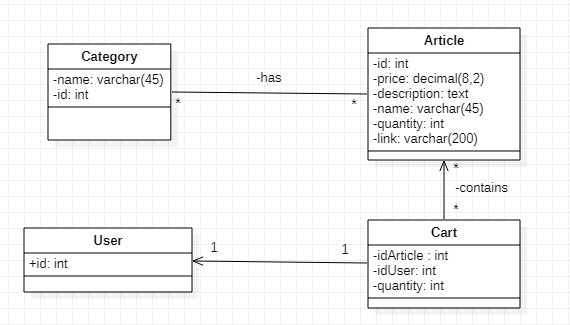
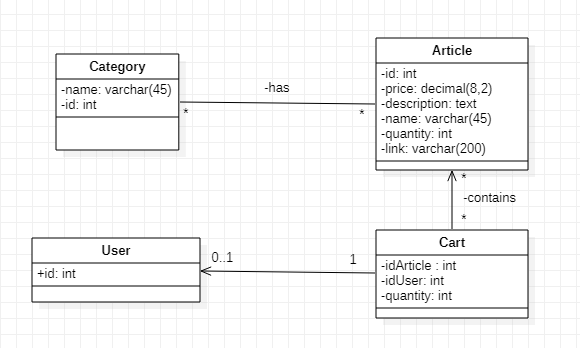
tweaked domain model, added tests and comments for Article class

Changed region(s): [[0.0298, 0.0615, 0.9246, 0.9538]]

diff --git a/src/main/java/com/DAO/Objects/Article.java b/src/main/java/com/DAO/Objects/Article.java
@@ -14,7 +14,6 @@ import java.util.List;
 import java.util.Objects;
 import java.util.Set;
 
-//TODO: peut etre enlever les @SETTER parce qu'on peut modifier depuis le navigateur les trucs de la DB
 @Table(name = "article")
 @Entity
 @Proxy(lazy=false)
@@ -25,8 +24,6 @@ public class Article {
             "Mega cool Theme", 0, "./resources/images/product2-2.jpg");
 
 
-
-
     @Id
     @GeneratedValue(strategy = GenerationType.IDENTITY)
     @Column(name = "id", nullable = false)
@@ -34,7 +31,7 @@ public class Article {
     private Integer id;
 
     @Column(name = "price", precision = 8, scale = 2)
-    @Getter @Setter
+    @Getter
     private BigDecimal price;
 
     @Lob
@@ -47,12 +44,21 @@ public class Article {
     private String name;
 
     @Column(name = "quantity", nullable = false)
-    @Getter @Setter
+    @Getter
     private Integer quantity;
 
     @Column(name = "link", length = 200)
     @Getter @Setter
     private String link;
+
+    @ManyToMany(cascade={CascadeType.PERSIST},fetch=FetchType.EAGER)
+    @JoinTable(
+            name = "article_category",
+            joinColumns = {@JoinColumn(name ="idArticle")},
+            inverseJoinColumns = {@JoinColumn(name="idCategory")}
+    )
+    @Getter
+    private Set<Category> categories = new HashSet<Category>();
 
     public Article(BigDecimal price, String description, String name, Integer quantity, String link){
         this.price = (price.intValue() >= 0) ? price : BigDecimal.valueOf(0);
@@ -67,33 +73,62 @@ public class Article {
 
     }
 
+    /**
+     * Setter for the article price, not generated cause we want to make sure it cannot be a negative number
+     * @param price the new value for the article price
+     */
+    public void setPrice(BigDecimal price) {
+        this.price =  (price.intValue() >= 0) ? price : BigDecimal.valueOf(0);
+    }
+
+    /**
+     * Setter for the article quantity, because we don't want it to be negative
+     * @param quantity the new value for the article quantity
+     */
+    public void setQuantity(Integer quantity) {
+        this.quantity = this.quantity = quantity >= 0 ? quantity : 0;;
+    }
+
+    /**
+     * determines wether or not an article is "sellable", which means that it has a price
+     * that is over 0 and a quantity that is over 0 as well
+     * @return true if the article has non-null price and quantity
+     */
     public boolean isSellable(){
         return this.price.compareTo(BigDecimal.ZERO) > 0 && this.quantity > 0;
     }
 
-    @ManyToMany(cascade={CascadeType.PERSIST},fetch=FetchType.EAGER)
-    @JoinTable(
-            name = "article_category",
-            joinColumns = {@JoinColumn(name ="idArticle")},
-            inverseJoinColumns = {@JoinColumn(name="idCategory")}
-    )
-    @Getter
-    private Set<Category> categories = new HashSet<Category>();
 
+    /**
+     * helper function to add a category to an article
+     * and then add our article to the category
+     * @param category the category we want to add to our article
+     */
     public void addCategory(Category category) {
         this.categories.add(category);
         category.getArticles().add(this);
     }
 
+    /**
+     * helper function to remove a category from an article
+     * it also removes the article from that category
+     * @param category the category we want to remove
+     */
     public void removeCategory(Category category) {
         this.categories.remove(category);
         category.getArticles().remove(this);
     }
 
-    //TODO contains marchait pas pour ça, peut-être modifier le equals ? jsp si c'est propre ou pas
+
+    /**
+     * checks if an article has a certain category
+     * @param category the category you want to check
+     * @return true if the category has the same id as a category in the article's set
+     */
     public boolean hasCategory(Category category){
         Boolean hasCategory = false;
         for(Category c : this.getCategories()){
+            //TODO apparently this isn't good (cf code quality in github, will fix later)
             if( c.getId() == category.getId()){
                 hasCategory = true;
             }
@@ -101,10 +136,27 @@ public class Article {
         return hasCategory;
     }
 
+    /**
+     * adds a list of categories to our article
+     * @param categoryList a list containing all the categories you want to add
+     */
     public void addCategoryList( List<Category> categoryList){
-        categories.addAll( categoryList );
+        for( Category cat : categoryList){
+            this.addCategory(cat);
+        }
     }
 
+    /**
+     * removes a list of categories from our article
+     * @param categoryList a list containing all the categories you want to remove
+     */
+    public void removeCategoryList(List<Category> categoryList){
+        for(Category cat: categoryList){
+            this.removeCategory(cat);
+        }
+    }
+
+    @Override
     public boolean equals(Object o){
         if (o == this) return true;
         if (!(o instanceof Article)) return false;

diff --git a/src/test/java/ArticleTest.java b/src/test/java/ArticleTest.java
@@ -1,0 +1,110 @@
+import com.DAO.Objects.Article;
+import com.DAO.Objects.Category;
+import org.junit.jupiter.api.Test;
+
+import java.math.BigDecimal;
+
+
+import static org.junit.jupiter.api.Assertions.*;
+
+
+public class ArticleTest {
+    Article article1 = new Article(BigDecimal.valueOf(10.67),"testing","Article1", 5, "placeholder");
+    Category category1 = new Category("Category1");
+    Category category2 = new Category("Category2");
+
+    /**
+     * Tests that it is not possible to have an article with a negative price value
+     */
+    @Test
+    public void testNoNegativePriceValues(){
+        Article article = new Article(BigDecimal.valueOf(-5),"testing","negative price", 4, "placeholder");
+        assertEquals(BigDecimal.valueOf(0), article.getPrice());
+        article.setPrice(BigDecimal.valueOf(-15.6));
+        assertEquals(BigDecimal.valueOf(0), article.getPrice());
+    }
+
+
+    /**
+     * Tests that it is not possible to have a negative Quantity value for an article
+     */
+    @Test
+    public void testNoNegativeQuantityValues(){
+        Article article = new Article(BigDecimal.valueOf(10),"testing","negative price", -15, "placeholder");
+        assertEquals(0, article.getQuantity());
+        article.setQuantity(Integer.MIN_VALUE);
+        assertEquals(0, article.getQuantity());
+    }
+
+    /**
+     * tests the behavior of the article quantity in edge cases (int max and zero here)
+     */
+    @Test
+    public void testEdgeQuantityValues(){
+        Article article = new Article(BigDecimal.valueOf(10),"testing","negative price", 0, "placeholder");
+        assertEquals(0, article.getQuantity());
+        article.setQuantity(Integer.MAX_VALUE);
+        assertEquals(Integer.MAX_VALUE, article.getQuantity());
+    }
+
+    /**
+     * Tests the isSellable method, that is works correctly for quantity of 0 or price of 0
+     */
+    @Test
+    public void testIsSellable(){
+        assertTrue(article1.isSellable());
+        article1.setQuantity(0);
+        assertFalse(article1.isSellable());
+        article1.setQuantity(5);
+        article1.setPrice(BigDecimal.valueOf(0));
+        assertFalse(article1.isSellable());
+        article1.setPrice(BigDecimal.valueOf(10.67));
+    }
+
+    /**
+     * Tests that the hasCategory method works as intended, to detect if an article has a specific
+     * category attributed to it
+     */
+    @Test
+    public void testHasCategory(){
+        article1.setId(1);
+        category1.setId(2);
+        assertTrue(article1.getCategories().isEmpty());
+        assertFalse(article1.hasCategory(category1));
+        article1.addCategory(category1);
+        assertTrue(article1.hasCategory(category1));
+    }
+
+    /**
+     * Tests the addition of a category to an article
+     */
+    @Test
+    public void testCategoryAdd(){
+        article1.setId(1);
+        category1.setId(2);
+        category2.setId(3);
+        assertTrue(article1.getCategories().isEmpty());
+        assertFalse(article1.hasCategory(category1));
+        article1.addCategory(category1);
+        assertTrue(article1.hasCategory(category1));
+        assertFalse(article1.hasCategory(category2));
+    }
+
+    /**
+     * Tests the removal of a category from an article
+     */
+    @Test
+    public void testCategoryRemove(){
+        article1.setId(1);
+        category1.setId(2);
+        category2.setId(3);
+        assertTrue(article1.getCategories().isEmpty());
+        assertFalse(article1.hasCategory(category1));
+        article1.addCategory(category1);
+        article1.addCategory(category2);
+        assertTrue(article1.hasCategory(category2));
+        article1.removeCategory(category2);
+        assertFalse(article1.hasCategory(category2));
+
+    }
+}
